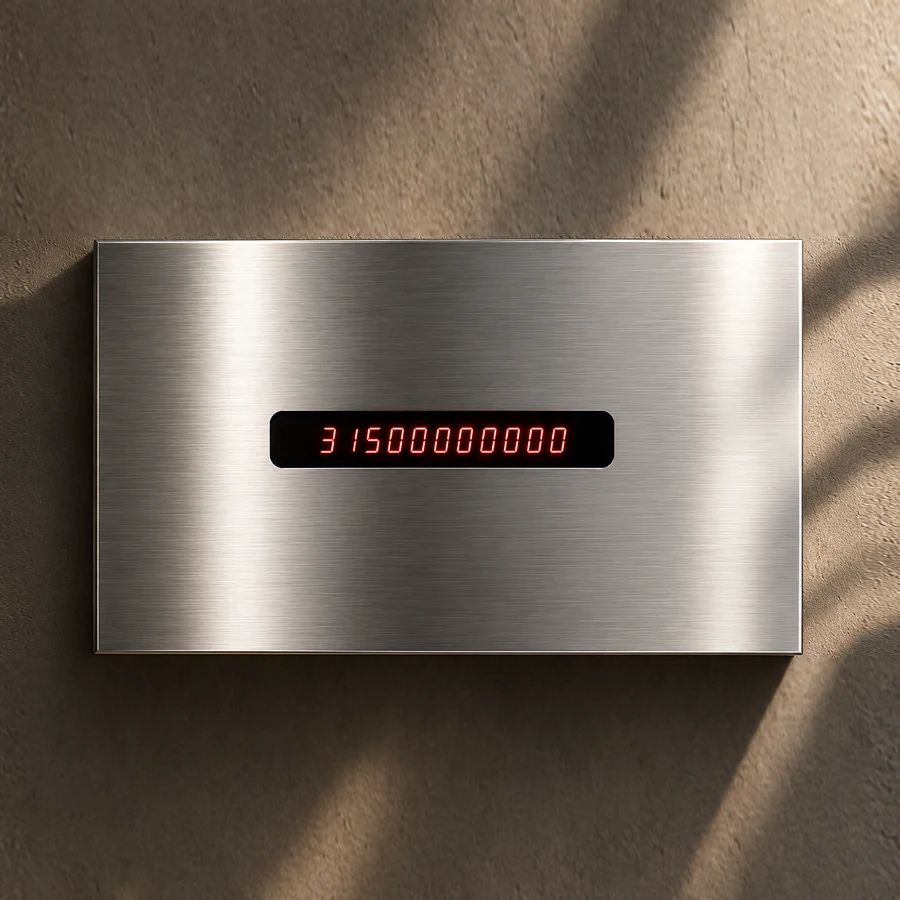
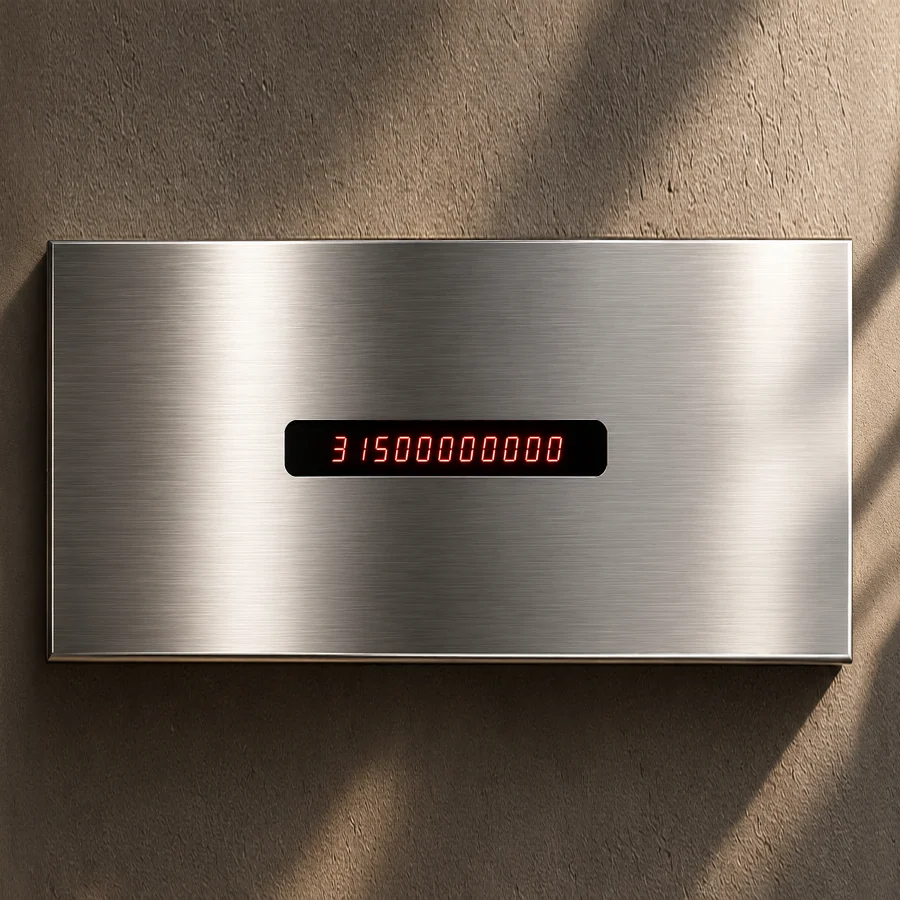
Life line: fix drag jump, steps replaced by one line, centered text; Ways to use uppercase titles; silver painting same size as gold
Claude-Session: https://claude.ai/code/session_01Hw5A9CtCeA8E1FeyZB8oK2

diff --git a/index.html b/index.html
@@ -316,7 +316,8 @@ em{font-style:italic;font-weight:300}
 .zb:hover{background:var(--black);color:var(--white)}
 #llZoom{width:min(220px,40vw);accent-color:var(--black)}
 .ll-view{position:relative;height:clamp(262px,21vw,300px);overflow:hidden;cursor:grab;touch-action:pan-y;margin-top:18px;user-select:none;-webkit-user-select:none}
-.ll-view.drag{cursor:grabbing}
+.ll-view.drag{cursor:grabbing}.ll-view img{-webkit-user-drag:none;user-drag:none}.ll-view.drag .ll-card,.ll-view.drag .ll-card:hover{transform:none}
+.ll-view{-webkit-mask-image:linear-gradient(90deg,transparent 0,#000 40px,#000 calc(100% - 40px),transparent 100%);mask-image:linear-gradient(90deg,transparent 0,#000 40px,#000 calc(100% - 40px),transparent 100%)}
 .ll-track{position:absolute;inset:0}
 .ll-axis{position:absolute;left:0;right:0;bottom:64px;height:1px;background:var(--black)}
 .ll-ticks{position:absolute;left:0;right:0;bottom:0;height:64px}
@@ -349,7 +350,7 @@ em{font-style:italic;font-weight:300}
 .ll-view.calm .ll-card .cap{text-align:center;padding:8px 4px 0}
 .ll-view.calm .ll-card .cap b,.ll-view.calm .ll-card .cap span{white-space:nowrap;overflow:hidden;text-overflow:ellipsis;display:block}
 .ll-view.calm .ll-card .cap b{font-size:13px}
-.ll-now span{position:absolute;top:0;left:6px;color:var(--pink);font-size:10px;white-space:nowrap}
+.ll-now span{position:absolute;top:0;right:6px;color:var(--pink);font-size:10px;white-space:nowrap}
 .ll-mini{position:relative;height:30px;margin-top:16px;border:1px solid var(--black);cursor:pointer;touch-action:none}
 .ll-mini-dots i{position:absolute;top:50%;width:3px;height:12px;margin-top:-6px;background:var(--black)}
 .ll-mini-dots i.p{background:var(--pink)}
@@ -598,7 +599,7 @@ input.sent::placeholder{color:#0a0a0a;opacity:1;font-weight:500}
 #uses .u{padding-block:clamp(15px,1.6vw,21px);row-gap:6px}
 #uses .u:nth-child(odd){padding-right:34px}
 #uses .u:nth-child(even){padding-left:34px}
-#uses .u h3{font-size:clamp(18px,1.55vw,22px)}
+#uses .u h3{font-size:clamp(18px,1.55vw,22px);text-transform:uppercase;letter-spacing:.02em}
 #uses .u p{font-size:clamp(14px,1.02vw,16px);line-height:1.55}
 #uses .u p b{font-weight:600;color:#0a0a0a}
 @media (max-width:860px){#uses .u:nth-child(odd),#uses .u:nth-child(even){padding-left:0;padding-right:0}}
@@ -809,6 +810,14 @@ em,i.em{font-style:normal!important}
 #timeless .cw-t p .q{margin-right:-22px;vertical-align:.04em}
 /* a question mark never stays alone on a line: it is kept with the word before it */
 .qnw{white-space:nowrap}.qnw .q{vertical-align:.04em}
+/* Your life line: title centered, text in one centered column as wide as the email field */
+@media (min-width:861px){
+  .cw-ll{grid-template-columns:1fr}
+  .cw-ll>h2{justify-self:center;text-align:center;max-width:none}
+  .cw-ll>.cw-t{justify-self:center;width:768px;max-width:100%}
+  .cw-ll>.cw-full{grid-area:auto;grid-column:1/-1}
+}
+
 
 /* moves made by Max in the layout editor (computer), baked in exactly as he placed them */
 @media (min-width:861px){
@@ -1017,7 +1026,7 @@ em,i.em{font-style:normal!important}
   <div class="cw-t">
     <p>A limited series in silver and gold: only 100 pieces of each version<br>A unique gift combined with an investment<button type="button" class="q" data-q="Every Timeless piece is numbered and comes with a certificate of authenticity. The gold is of the finest purity. It is made to be passed on together with its moment." aria-label="More about this" aria-expanded="false">?</button>.</p>
   </div>
-  <div class="cw-full tl-cmp"><figure class="tlc"><div class="tlc-in" role="slider" tabindex="0" aria-label="Keychain: silver and gold" aria-valuemin="0" aria-valuemax="100" aria-valuenow="50"><img class="s" src="img/tc/keychain-silver.webp" alt="Keychain · silver" draggable="false"><img class="g" src="img/tc/keychain-gold.webp" alt="Keychain · gold" draggable="false"><i class="tlc-ln"></i><span class="tlc-l">Silver</span><span class="tlc-r">Gold</span></div><figcaption>Keychain</figcaption></figure><figure class="tlc"><div class="tlc-in" role="slider" tabindex="0" aria-label="Pendant: silver and gold" aria-valuemin="0" aria-valuemax="100" aria-valuenow="50"><img class="s" src="img/tc/pendant-silver.webp?2" alt="Pendant · silver" draggable="false"><img class="g" src="img/tc/pendant-gold.webp" alt="Pendant · gold" draggable="false"><i class="tlc-ln"></i><span class="tlc-l">Silver</span><span class="tlc-r">Gold</span></div><figcaption>Pendant</figcaption></figure><figure class="tlc"><div class="tlc-in" role="slider" tabindex="0" aria-label="Painting: silver and gold" aria-valuemin="0" aria-valuemax="100" aria-valuenow="50"><img class="s" src="img/tc/painting-silver.webp?3" alt="Painting · silver" draggable="false"><img class="g" src="img/tc/painting-gold.webp" alt="Painting · gold" draggable="false"><i class="tlc-ln"></i><span class="tlc-l">Silver</span><span class="tlc-r">Gold</span></div><figcaption>Painting</figcaption></figure><figure class="tlc"><div class="tlc-in" role="slider" tabindex="0" aria-label="Watch: silver and gold" aria-valuemin="0" aria-valuemax="100" aria-valuenow="50"><img class="s" src="img/tc/watch-silver.webp?2" alt="Watch · silver" draggable="false"><img class="g" src="img/tc/watch-gold.webp?2" alt="Watch · gold" draggable="false"><i class="tlc-ln"></i><span class="tlc-l">Silver</span><span class="tlc-r">Gold</span></div><figcaption>Watch</figcaption></figure><figure class="tlc"><div class="tlc-in" role="slider" tabindex="0" aria-label="Analog watch: silver and gold" aria-valuemin="0" aria-valuemax="100" aria-valuenow="50"><img class="s" src="img/tc/watch2-silver.webp?2" alt="Analog watch · silver" draggable="false"><img class="g" src="img/tc/watch2-gold.webp?2" alt="Analog watch · gold" draggable="false"><i class="tlc-ln"></i><span class="tlc-l">Silver</span><span class="tlc-r">Gold</span></div><figcaption>Analog watch</figcaption></figure></div>
+  <div class="cw-full tl-cmp"><figure class="tlc"><div class="tlc-in" role="slider" tabindex="0" aria-label="Keychain: silver and gold" aria-valuemin="0" aria-valuemax="100" aria-valuenow="50"><img class="s" src="img/tc/keychain-silver.webp" alt="Keychain · silver" draggable="false"><img class="g" src="img/tc/keychain-gold.webp" alt="Keychain · gold" draggable="false"><i class="tlc-ln"></i><span class="tlc-l">Silver</span><span class="tlc-r">Gold</span></div><figcaption>Keychain</figcaption></figure><figure class="tlc"><div class="tlc-in" role="slider" tabindex="0" aria-label="Pendant: silver and gold" aria-valuemin="0" aria-valuemax="100" aria-valuenow="50"><img class="s" src="img/tc/pendant-silver.webp?2" alt="Pendant · silver" draggable="false"><img class="g" src="img/tc/pendant-gold.webp" alt="Pendant · gold" draggable="false"><i class="tlc-ln"></i><span class="tlc-l">Silver</span><span class="tlc-r">Gold</span></div><figcaption>Pendant</figcaption></figure><figure class="tlc"><div class="tlc-in" role="slider" tabindex="0" aria-label="Painting: silver and gold" aria-valuemin="0" aria-valuemax="100" aria-valuenow="50"><img class="s" src="img/tc/painting-silver.webp?4" alt="Painting · silver" draggable="false"><img class="g" src="img/tc/painting-gold.webp" alt="Painting · gold" draggable="false"><i class="tlc-ln"></i><span class="tlc-l">Silver</span><span class="tlc-r">Gold</span></div><figcaption>Painting</figcaption></figure><figure class="tlc"><div class="tlc-in" role="slider" tabindex="0" aria-label="Watch: silver and gold" aria-valuemin="0" aria-valuemax="100" aria-valuenow="50"><img class="s" src="img/tc/watch-silver.webp?2" alt="Watch · silver" draggable="false"><img class="g" src="img/tc/watch-gold.webp?2" alt="Watch · gold" draggable="false"><i class="tlc-ln"></i><span class="tlc-l">Silver</span><span class="tlc-r">Gold</span></div><figcaption>Watch</figcaption></figure><figure class="tlc"><div class="tlc-in" role="slider" tabindex="0" aria-label="Analog watch: silver and gold" aria-valuemin="0" aria-valuemax="100" aria-valuenow="50"><img class="s" src="img/tc/watch2-silver.webp?2" alt="Analog watch · silver" draggable="false"><img class="g" src="img/tc/watch2-gold.webp?2" alt="Analog watch · gold" draggable="false"><i class="tlc-ln"></i><span class="tlc-l">Silver</span><span class="tlc-r">Gold</span></div><figcaption>Analog watch</figcaption></figure></div>
   <p class="cw-full tl-n">100 pieces of each</p>
   <div class="cw-full tl-cta"><form class="res tl-form" id="tlForm" novalidate><span class="rsv-in" id="tlIn"><input type="email" id="tlEmail" placeholder="" autocomplete="email" aria-label="Reserve Timeless series: your email"><label class="tl-lab" for="tlEmail">Reserve Timeless series</label></span><button class="btn" type="submit" id="tlBtn">Reserve</button></form><p class="okmsg" id="tlOk" hidden></p></div>
 </section>
@@ -1151,13 +1160,9 @@ em,i.em{font-style:normal!important}
 <section class="cw cw-ll">
   <h2>Your life line</h2>
   <div class="cw-t"><p>Once a month, you upload 3 photos, 1 video and a short note, like a small letter to yourself. <u>An eternal diary</u>, every month, to build <u>the album of your life</u> that your relatives can look through hundreds of years from now.</p>
-    <p>Today we cannot see photos even of our closest relatives, let alone of those who lived hundreds of years before us, and yet it is because of them that we exist. In the future this problem will not exist.</p>
+    <p>Today we cannot see photos, let alone the whole story, even of our closest relatives, not to mention those who lived hundreds of years before us, and yet it is because of them that we exist. In the future this problem will not exist.</p>
     <p>You, the way you lived, what you went through, <u>will stay forever</u>. People who do not exist yet and will only be born hundreds of years from now will be able to learn a lot about you and take care of this <u>family line</u>.</p>
-    <ol class="nl">
-      <li><span class="n">01</span><p><b>Register</b> Leave your email and your life line starts from your moment</p></li>
-      <li><span class="n">02</span><p><b>Add a month</b> Three photos, one video and a short note for every month you live</p></li>
-      <li><span class="n">03</span><p><b>Pass it on</b> The line stays with the device and goes to the next generation</p></li>
-    </ol>
+    <p>Register, post 3 photos and 1 video once a month, and keep the album of your life.</p>
   </div>
   <div class="cw-full ll" id="ll">
 
@@ -1585,7 +1590,7 @@ em,i.em{font-style:normal!important}
     const place=()=>{ if(!vt) return; if(mq.matches){ const t=$('pText'); if(t&&vt.previousElementSibling!==t) t.after(vt) } else if(vt.parentNode!==home) home.appendChild(vt) };
     place(); (mq.addEventListener?mq.addEventListener('change',place):mq.addListener(place)) })();
   // Your life line, computer: the title and the 3 steps share the left column, centered; phone: as before
-  document.querySelectorAll('.cw-ll').forEach(sec=>{ sec.classList.add('cw-split'); const h=sec.querySelector(':scope>h2')||sec.querySelector('.ll-left h2'), t=sec.querySelector('.cw-t'), ol=t&&t.querySelector('.nl'); if(!h||!ol) return;
+  document.querySelectorAll('.cw-ll').forEach(sec=>{ const h=sec.querySelector(':scope>h2')||sec.querySelector('.ll-left h2'), t=sec.querySelector('.cw-t'), ol=t&&t.querySelector('.nl'); if(!h||!ol) return; sec.classList.add('cw-split');
     const left=document.createElement('div'); left.className='ll-left'; const mq=matchMedia('(min-width:861px)');
     const place=()=>{ if(mq.matches){ if(!left.parentNode) sec.insertBefore(left,t); left.appendChild(h); left.appendChild(ol) } else if(left.parentNode){ sec.insertBefore(h,left); t.appendChild(ol); left.remove() } };
     place(); (mq.addEventListener?mq.addEventListener('change',place):mq.addListener(place)) ;
@@ -1917,7 +1922,7 @@ em,i.em{font-style:normal!important}
     const isMonths=()=>ppd>(minP()+monthsP())/2;
     const toYears=()=>{ x0=0; animZoom(minP(),0) };
     // going to months always opens one whole year: the year under the pointer (or in the middle of the line)
-    const toMonths=cx=>{ const t=T0+((x0+(cx==null?view.clientWidth/2:cx)-PAD)/ppd)*DAY; const y=new Date(Math.min(Math.max(t,T0),T1)).getUTCFullYear(); animTo(monthsP(),(Math.max(T0,Date.UTC(y,0,1))-T0)/DAY) };
+    const toMonths=cx=>{ const t=T0+((x0+(cx==null?view.clientWidth/2:cx)-PAD)/ppd)*DAY; const y=new Date(Math.min(Math.max(t,T0),T1)).getUTCFullYear(); animTo(monthsP(),(Math.max(T0,Date.UTC(y,0,1))-T0)/DAY-PAD/monthsP()) };
     zoomEl.addEventListener('input',()=>{ +zoomEl.value?toMonths():toYears() });
     $('llIn').onclick=()=>toMonths();
     $('llOut').onclick=()=>toYears();
@@ -1931,6 +1936,7 @@ em,i.em{font-style:normal!important}
     const wz={on:false,t:0,cx:0};
     // drag + pinch
     const ptrs=new Map(); let moved=false, lastD=0, lx=0, vx=0, inert=null, sx=0;
+    view.addEventListener('dragstart',e=>e.preventDefault());
     view.addEventListener('click',e=>{ if(moved){ e.stopPropagation(); e.preventDefault(); moved=false } },true);
     view.addEventListener('pointerdown',e=>{ ptrs.set(e.pointerId,e.clientX); moved=false; lx=e.clientX; sx=e.clientX; vx=0; cancelAnimationFrame(inert); view.classList.add('drag'); if(ptrs.size===2){ const v=[...ptrs.values()]; lastD=Math.abs(v[0]-v[1]) } });
     view.addEventListener('pointermove',e=>{
@@ -1967,7 +1973,7 @@ em,i.em{font-style:normal!important}
     function init(){ ppd=minP(); x0=0; render() }
     function animTo(p1,tLeft){ cancelAnimationFrame(anim); const big=Math.abs(Math.log(p1/ppd))>0.05; if(big) zFade(true); const p0=ppd, l0=(x0-PAD)/ppd, st=performance.now(); const step=n=>{ const k=Math.min(1,(n-st)/520), e=1-Math.pow(1-k,3); ppd=Math.exp(Math.log(p0)+(Math.log(p1)-Math.log(p0))*e); const l=l0+(tLeft-l0)*e; x0=l*ppd+PAD; render(); if(k<1) anim=requestAnimationFrame(step); else if(big) zFade(false) }; anim=requestAnimationFrame(step) }
     ticksEl.addEventListener('click',e=>{ const b=e.target.closest('.ll-ys'); if(!b||moved) return; const y=+b.dataset.y; const ta=Math.max(T0,Date.UTC(y,0,1)), tb=Math.min(T1,Date.UTC(y+1,0,1)); const days=(tb-ta)/DAY;
-      animTo(monthsP(),(ta-T0)/DAY) }); // a year clicked opens the months level from that year's January
+      animTo(monthsP(),(ta-T0)/DAY-PAD/monthsP()) }); // a year clicked opens the months level from that year's January
     rebuild(); addEventListener('resize',render);
     const exampleE=E.slice(), exT=[T0,T1,NOW];
 
